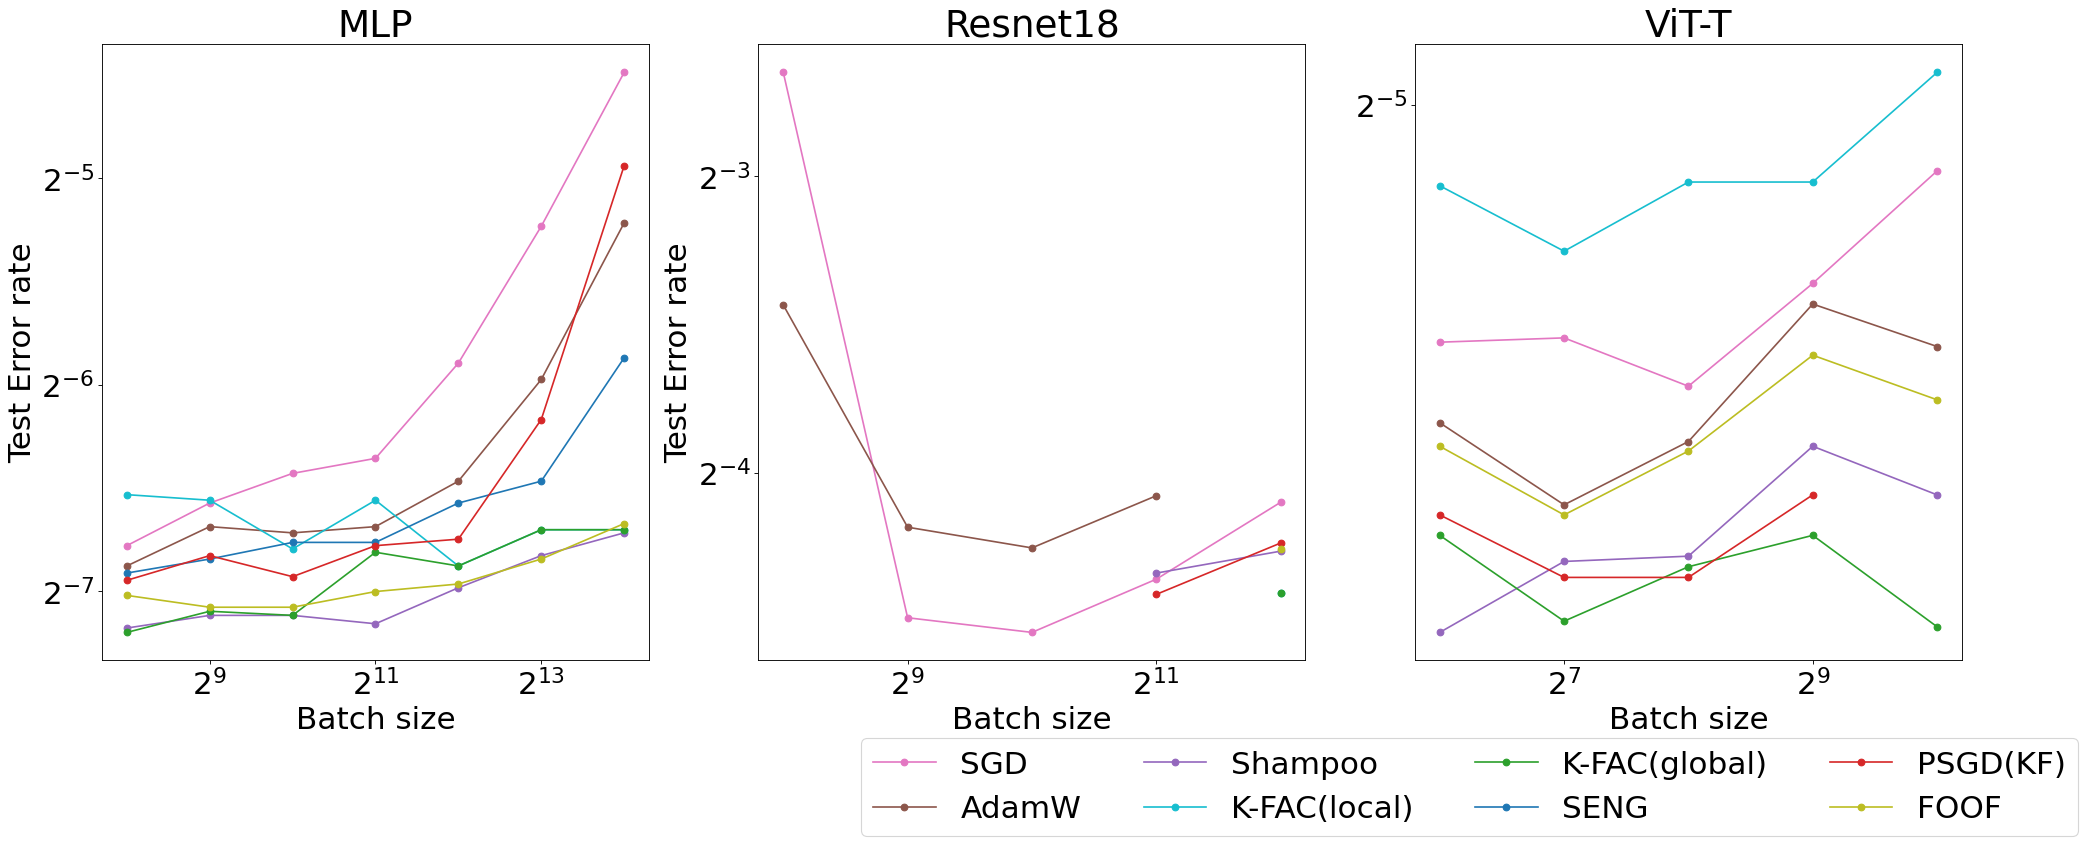
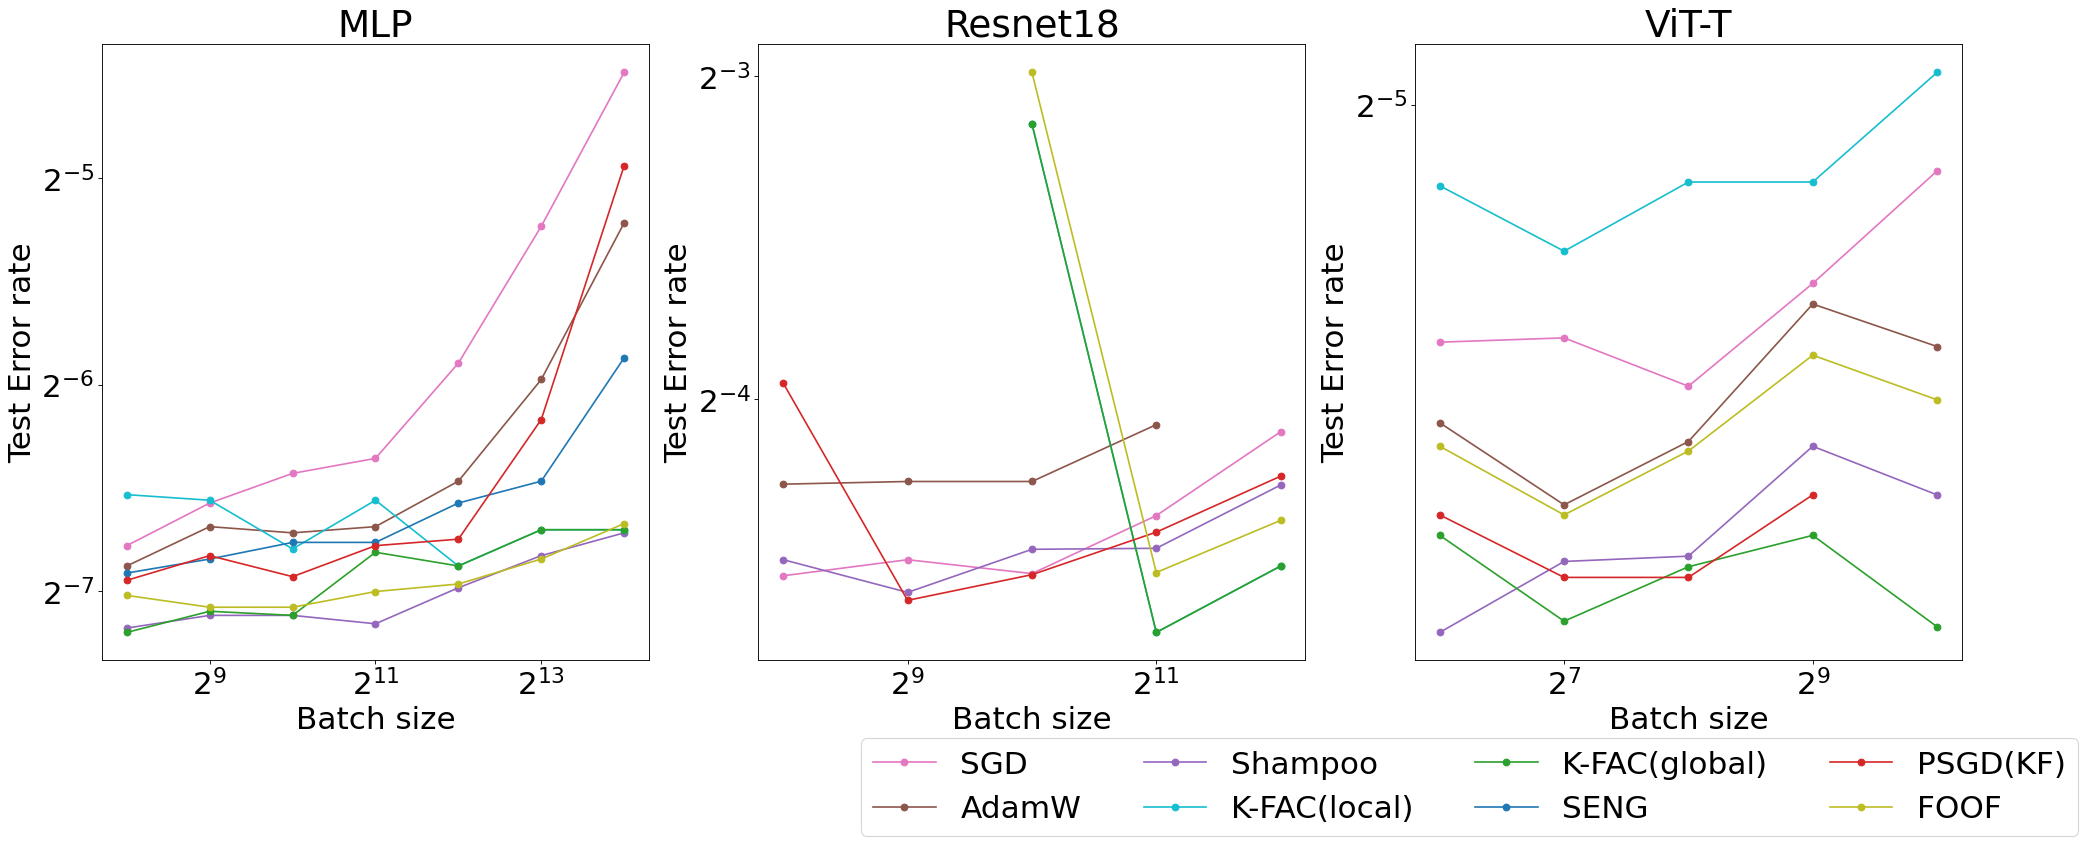
grafting

diff --git a/sotsuron/grafting.py b/sotsuron/grafting.py
@@ -1,0 +1,136 @@
+import wandb
+import matplotlib.pyplot as plt
+import numpy as np
+
+col = {'sgd':'tab:pink','psgd':'tab:red','kfac_mc':'tab:green','kfac_mc_local':'tab:cyan','seng':'tab:blue','shampoo':'tab:purple','adamw':'tab:brown','foof':'tab:olive'}
+model_name_dic = {'mlp':'MLP','cnn':'CNN','resnet18':'Resnet18','vit_tiny_patch16_224':'ViT-tiny'}
+optim_dict = {'sgd':'SGD','adamw':'AdamW','psgd':'PSGD(KF)','kfac_mc':'K-FAC(global)','foof':'FOOF','skfac_mc':'SK-FAC(1-mc)','shampoo':'Shampoo','seng':'SENG','smw_ngd':'SMW-NG'}
+grafting_dict = {'None':"solid",'SGDNorm':"dashdot",'SGDDirection':"dashed",'AllSGD':"solid"}
+
+def make_dict(epoch_list):
+    acc_dic={}
+    for optim in optim_list:
+        acc_dic[optim]={}
+        for grafting in ["None",'SGDNorm','SGDDirection','AllSGD']:
+            acc_dic[optim][grafting]={}
+            for epoch in epoch_list:
+                acc_dic[optim][grafting][epoch]=0
+    return acc_dic
+
+def remove_dict(acc_dic,epoch_list):
+    for optim in optim_list:
+        for epoch in epoch_list:
+            for grafting in ["None",'SGDNorm','SGDDirection','AllSGD']:
+                if acc_dic[optim][grafting][epoch]<50:
+                    acc_dic[optim][grafting].pop(epoch)
+    return acc_dic
+
+def collect_runs(model,bs,sweep_list_mlp,epoch_list,metric='max_test_accuracy'):
+    damp_loss_dic = make_dict(epoch_list)
+    for sweep_name in sweep_list_mlp:
+        sweep = api.sweep(sweep_name)
+        runs = sweep.runs
+        for run in runs:
+            model_name = run.config.get('model')
+            opt=str(run.config.get('optim'))
+            graft=str(run.config.get('grafting'))
+
+            if model_name == model  and run.config.get('epochs') in epoch_list and opt in optim_list and run.config.get('batch_size') == bs:
+                if run.summary.get("cuda_max_memory") == -1 or type(run.summary.get(metric)) != float:
+                    test_accuracy=0
+                else:
+                    test_accuracy=run.summary.get(metric)
+
+                if graft == 'AllSGD':
+                    opt = 'sgd'
+
+                cur_loss=damp_loss_dic[opt][graft][run.config.get('epochs')]
+                if test_accuracy > cur_loss:
+                    damp_loss_dic[opt][graft][run.config.get('epochs')]=test_accuracy
+
+                # if run.config.get('optim')=='kfac_mc' and run.config.get('ema_decay')==-1:
+                #     cur_loss=damp_loss_dic['kfac_mc_local'][str(run.config.get('grafting'))][run.config.get('epochs')]
+                #     if test_accuracy > cur_loss:
+                #         damp_loss_dic['kfac_mc_local'][str(run.config.get('grafting'))][run.config.get('epochs')]=test_accuracy
+    print(model,' completed')
+    return damp_loss_dic
+
+def plot(ax,output_dic,grafting):
+    for optim in optim_list: 
+        if optim == 'sgd':
+            xkey=list(output_dic[optim]['AllSGD'].keys())
+            yvalue=list(output_dic[optim]['AllSGD'].values())
+            ax.plot(xkey,yvalue,label=optim_dict[optim],color=col[optim],marker='o')
+        else:
+            xkey=list(output_dic[optim][grafting].keys())
+            yvalue=list(output_dic[optim][grafting].values())
+            ax.plot(xkey,yvalue,label=optim_dict[optim],color=col[optim],marker='o')
+
+if __name__=='__main__':
+    api = wandb.Api()
+    optim_list = ['sgd','shampoo','psgd','kfac_mc','foof','seng']
+    graft_list = ["None",'SGDNorm','SGDDirection']
+    epoch_list = [5,10,20,40]
+    epoch_list_resnet = [25,50,100,200]
+    filename = './sotsuron/graph/grafting.png'
+
+    sweep_list_mlp={
+        'riverstone/grafting/godore5g',
+        'riverstone/grafting/yvvvpeqq',
+        'riverstone/grafting/6uu1uny6',
+        'riverstone/grafting/u7szv79y',
+        'riverstone/grafting/gvi0d9s3',
+        'riverstone/grafting/xr4k3q2n'
+    }
+
+    sweep_list_resnet={
+        'riverstone/grafting/cf10xbtw',
+        'riverstone/grafting/rgdrwvna',
+        'riverstone/grafting/oriqygl6',
+        'riverstone/grafting/s45umgc1',
+    }
+
+    sweep_list_vit={
+        'riverstone/grafting/0fq4zsll',
+        'riverstone/grafting/9t8riv33',
+        'riverstone/grafting/l8skh2i3',
+        'riverstone/grafting/x54o7iz8'
+    }
+
+    metric = "max_test_accuracy"
+    test_dic_mlp_256=collect_runs('mlp',256,sweep_list_mlp,epoch_list,metric=metric)
+    test_dic_mlp=collect_runs('mlp',16384,sweep_list_mlp,epoch_list,metric=metric)
+    test_dic_resnet=collect_runs('resnet18',128,sweep_list_resnet,epoch_list_resnet,metric=metric)
+    test_dic_resnet_1024=collect_runs('resnet18',1024,sweep_list_resnet,epoch_list_resnet,metric=metric)
+    test_dic_vit=collect_runs('vit_tiny_patch16_224',512,sweep_list_vit,epoch_list,metric=metric)
+    test_dic_resnet=remove_dict(test_dic_resnet,epoch_list_resnet)
+    test_dic_resnet_1024=remove_dict(test_dic_resnet_1024,epoch_list_resnet)
+    test_dic_vit=remove_dict(test_dic_vit,epoch_list)
+
+    plt.rcParams["font.size"] = 28
+    fig, axes = plt.subplots(nrows=len(graft_list), ncols=5, figsize=(50, 30))
+
+    for j in range(len(graft_list)):
+        graft = graft_list[j]
+        plot(axes[j][0],test_dic_mlp_256,graft)
+        plot(axes[j][1],test_dic_mlp,graft)
+        plot(axes[j][2],test_dic_resnet,graft)
+        plot(axes[j][3],test_dic_resnet_1024,graft)
+        plot(axes[j][4],test_dic_vit,graft)
+
+        axes[j][0].set_xlabel('Epoch')
+        axes[j][1].set_xlabel('Epoch')
+        axes[j][2].set_xlabel('Epoch')
+        axes[j][3].set_xlabel('Epoch')
+        axes[j][4].set_xlabel('Epoch')
+        axes[j][0].set_ylabel(graft)
+
+        axes[j][0].set_title('MLP(bs=128)')
+        axes[j][1].set_title('MLP(bs=16384)')
+        axes[j][2].set_title('Resnet(bs=128)')
+        axes[j][3].set_title('Resnet(bs=1024)')
+        axes[j][4].set_title('ViT')
+
+    plt.legend(loc='upper center', bbox_to_anchor=(0, -0.2), ncol=3)
+    plt.plot()
+    plt.savefig(filename,dpi=80,bbox_inches='tight',pad_inches=0.1)

diff --git a/sotsuron/grafting2.py b/sotsuron/grafting2.py
@@ -1,0 +1,131 @@
+import wandb
+import matplotlib.pyplot as plt
+import numpy as np
+
+col = {'sgd':'tab:pink','psgd':'tab:red','kfac_mc':'tab:green','kfac_mc_local':'tab:cyan','seng':'tab:blue','shampoo':'tab:purple','adamw':'tab:brown','foof':'tab:olive'}
+model_name_dic = {'mlp':'MLP','cnn':'CNN','resnet18':'Resnet18','vit_tiny_patch16_224':'ViT-tiny'}
+optim_dict = {'sgd':'SGD','adamw':'AdamW','psgd':'PSGD(KF)','kfac_mc':'K-FAC(global)','foof':'FOOF','skfac_mc':'SK-FAC(1-mc)','shampoo':'Shampoo','seng':'SENG','smw_ngd':'SMW-NG'}
+grafting_dict = {'None':"solid",'SGDNorm':"dashdot",'SGDDirection':"dashed",'AllSGD':"solid"}
+
+def make_dict(epoch_list):
+    acc_dic={}
+    for optim in optim_list:
+        acc_dic[optim]={}
+        for grafting in ["None",'SGDNorm','SGDDirection','AllSGD']:
+            acc_dic[optim][grafting]={}
+            for epoch in epoch_list:
+                acc_dic[optim][grafting][epoch]=0
+    return acc_dic
+
+def remove_dict(acc_dic,epoch_list):
+    for optim in optim_list:
+        for epoch in epoch_list:
+            for grafting in ["None",'SGDNorm','SGDDirection','AllSGD']:
+                if acc_dic[optim][grafting][epoch]<50:
+                    acc_dic[optim][grafting].pop(epoch)
+    return acc_dic
+
+def collect_runs(model,bs,sweep_list_mlp,epoch_list,metric='max_test_accuracy'):
+    damp_loss_dic = make_dict(epoch_list)
+    for sweep_name in sweep_list_mlp:
+        sweep = api.sweep(sweep_name)
+        runs = sweep.runs
+        for run in runs:
+            model_name = run.config.get('model')
+            opt=str(run.config.get('optim'))
+            graft=str(run.config.get('grafting'))
+
+            if model_name == model  and run.config.get('epochs') in epoch_list and opt in optim_list and run.config.get('batch_size') == bs:
+                if run.summary.get("cuda_max_memory") == -1 or type(run.summary.get(metric)) != float:
+                    test_accuracy=0
+                else:
+                    test_accuracy=run.summary.get(metric)
+
+                if graft == 'AllSGD':
+                    opt = 'sgd'
+
+                cur_loss=damp_loss_dic[opt][graft][run.config.get('epochs')]
+                if test_accuracy > cur_loss:
+                    damp_loss_dic[opt][graft][run.config.get('epochs')]=test_accuracy
+
+                # if run.config.get('optim')=='kfac_mc' and run.config.get('ema_decay')==-1:
+                #     cur_loss=damp_loss_dic['kfac_mc_local'][str(run.config.get('grafting'))][run.config.get('epochs')]
+                #     if test_accuracy > cur_loss:
+                #         damp_loss_dic['kfac_mc_local'][str(run.config.get('grafting'))][run.config.get('epochs')]=test_accuracy
+    print(model,' completed')
+    return damp_loss_dic
+
+def plot(ax,output_dic,grafting):
+    for optim in optim_list: 
+        if optim == 'sgd':
+            xkey=list(output_dic[optim]['AllSGD'].keys())
+            yvalue=list(output_dic[optim]['AllSGD'].values())
+            ax.plot(xkey,yvalue,label=optim_dict[optim],color=col[optim],marker='o')
+        else:
+            xkey=list(output_dic[optim][grafting].keys())
+            yvalue=list(output_dic[optim][grafting].values())
+            ax.plot(xkey,yvalue,label=optim_dict[optim],color=col[optim],marker='o')
+
+if __name__=='__main__':
+    api = wandb.Api()
+    optim_list = ['sgd','shampoo','psgd','kfac_mc','foof','seng']
+    graft_list = ["None",'SGDNorm','SGDDirection']
+    epoch_list = [5,10,20,40]
+    epoch_list_resnet = [25,50,100,200]
+
+    model = 'mlp'
+    #model = 'vit_tiny_patch16_224'
+    batch_size = 256
+    filename = './sotsuron/graph/grafting/grafting_'+model+'_bs'+str(batch_size)+'.png'
+
+    sweep_list_mlp={
+        'riverstone/grafting/godore5g',
+        'riverstone/grafting/yvvvpeqq',
+        'riverstone/grafting/6uu1uny6',
+        'riverstone/grafting/u7szv79y',
+        'riverstone/grafting/gvi0d9s3',
+        'riverstone/grafting/xr4k3q2n'
+    }
+
+    sweep_list_resnet={
+        'riverstone/grafting/cf10xbtw',
+        'riverstone/grafting/rgdrwvna',
+        'riverstone/grafting/oriqygl6',
+        'riverstone/grafting/s45umgc1',
+    }
+
+    sweep_list_vit={
+        'riverstone/grafting/0fq4zsll',
+        'riverstone/grafting/9t8riv33',
+        'riverstone/grafting/l8skh2i3',
+        'riverstone/grafting/x54o7iz8'
+    }
+
+    if model == 'mlp':
+        sweep_list=sweep_list_mlp
+        epoch_list=epoch_list
+    if model == 'resnet18':
+        sweep_list=sweep_list_resnet
+        epoch_list=epoch_list_resnet
+    if model == 'vit_tiny_patch16_224':
+        sweep_list=sweep_list_vit
+        epoch_list=epoch_list
+
+    metric = "max_test_accuracy"
+    test_dic = collect_runs(model,batch_size,sweep_list,epoch_list,metric=metric)
+    test_dic=remove_dict(test_dic,epoch_list)
+
+    plt.rcParams["font.size"] = 28
+    fig, axes = plt.subplots(nrows=1, ncols=len(graft_list), figsize=(30,10))
+
+    for j in range(len(graft_list)):
+        graft = graft_list[j]
+        plot(axes[j],test_dic,graft)
+
+        axes[j].set_xlabel('Epoch')
+        axes[j].set_ylabel(graft)
+
+    axes[1].set_title(model_name_dic[model]+'(bs='+str(batch_size)+')')
+    plt.legend(loc='upper center', bbox_to_anchor=(0, -0.2), ncol=3)
+    plt.plot()
+    plt.savefig(filename,dpi=80,bbox_inches='tight',pad_inches=0.1)

diff --git a/sotsuron/bstest_acc.py b/sotsuron/bstest_acc.py
@@ -11,13 +11,13 @@ def make_dict(batchsize_list):
     for optim in optim_list:
         acc_dic[optim]={}
         for bs in batchsize_list:
-            acc_dic[optim][bs]=np.inf
+            acc_dic[optim][bs]=0
     return acc_dic
 
 def remove_dict(acc_dic,batchsize_list):
     for optim in optim_list:
         for bs in batchsize_list:
-            if acc_dic[optim][bs]==1:
+            if acc_dic[optim][bs]<80:
                 acc_dic[optim].pop(bs)
     return acc_dic
 
@@ -32,16 +32,16 @@ def collect_runs(model,sweep_list_mlp,batchsize_list,metric='train_accuracy'):
                 if run.summary.get("cuda_max_memory") == -1 or type(run.summary.get(metric)) != float:
                     test_accuracy=0
                 else:
-                    test_accuracy=run.summary.get(metric)/100
+                    test_accuracy=run.summary.get(metric)
 
                 cur_loss=damp_loss_dic[run.config.get('optim')][run.config.get('batch_size')]
-                if 1-test_accuracy < cur_loss:
-                    damp_loss_dic[run.config.get('optim')][run.config.get('batch_size')]=1-test_accuracy
+                if test_accuracy > cur_loss:
+                    damp_loss_dic[run.config.get('optim')][run.config.get('batch_size')]=test_accuracy
 
                 if run.config.get('optim')=='kfac_mc' and (run.config.get('ema_decay')==-1 or  run.config.get('ema_decay')==1):
                     cur_loss=damp_loss_dic['kfac_mc_local'][run.config.get('batch_size')]
-                    if 1-test_accuracy < cur_loss:
-                        damp_loss_dic['kfac_mc_local'][run.config.get('batch_size')]=1-test_accuracy
+                    if test_accuracy > cur_loss:
+                        damp_loss_dic['kfac_mc_local'][run.config.get('batch_size')]=test_accuracy
 
     print(damp_loss_dic)
     return damp_loss_dic
@@ -50,8 +50,9 @@ if __name__=='__main__':
     api = wandb.Api()
     optim_list = ['sgd','adamw','shampoo','kfac_mc_local','kfac_mc','seng','psgd','foof']
     batchsize_list = [256,512,1024,2048,4096,8192,16384]
+    batchsize_list_res = [128,256,512,1024,2048,4096]
     batchsize_list_vit = [64,128,256,512,1024]
-    filename = './graph/bstrain.png'
+    filename = './sotsuron/graph/bstestacc.png'
 
     sweep_list_mlp={
         'riverstone/criteria/spzpahql',
@@ -85,17 +86,19 @@ if __name__=='__main__':
         'riverstone/res_batch/fnetnblk',
         'riverstone/res_batch/2mro7urd',
         'riverstone/res_batch/xzh4rrxh',
-        'riverstone/res_batch/yapj6sw7'
+        'riverstone/res_batch/zlh21342',
+        'riverstone/res_batch/18fm6e4e'
     }
 
-    metric='train_accuracy_all'
+    metric='max_test_accuracy'
     clip_test_dic_mlp=collect_runs('mlp',sweep_list_mlp,batchsize_list,metric=metric)
-    clip_test_dic_res=collect_runs('resnet18',sweep_list_res,batchsize_list,metric=metric)
+    clip_test_dic_res=collect_runs('resnet18',sweep_list_res,batchsize_list_res,metric=metric)
     clip_test_dic_vit=collect_runs('vit_tiny_patch16_224',sweep_list_vit,batchsize_list_vit,metric=metric)
+    clip_test_dic_res=remove_dict(clip_test_dic_res,batchsize_list_res)
     clip_test_dic_vit=remove_dict(clip_test_dic_vit,batchsize_list_vit)
 
     plt.rcParams["font.size"] = 28
-    fig, axes = plt.subplots(nrows=1, ncols=3, figsize=(33, 10))
+    fig, axes = plt.subplots(nrows=1, ncols=3, figsize=(30, 10))
 
     for j in range(len(optim_list)):
         optim = optim_list[j]
@@ -115,16 +118,16 @@ if __name__=='__main__':
         axes[1].set_xscale('log',base=2)
         axes[2].set_xscale('log',base=2)
         
-        axes[0].set_yscale('log',base=2)
-        axes[1].set_yscale('log',base=2)
-        axes[2].set_yscale('log',base=2)
+        #axes[0].set_yscale('log',base=2)
+        #axes[1].set_yscale('log',base=2)
+        #axes[2].set_yscale('log',base=2)
 
         axes[0].set_xlabel('Batch size')
         axes[1].set_xlabel('Batch size')
         axes[2].set_xlabel('Batch size')
-        axes[0].set_ylabel('Test Error rate')
-        axes[1].set_ylabel('Test Error rate')
-        axes[2].set_ylabel('Test Error rate')
+        axes[0].set_ylabel('Test Acc rate')
+        axes[1].set_ylabel('Test Acc rate')
+        axes[2].set_ylabel('Test Acc rate')
         axes[0].set_title('MLP')
         axes[1].set_title('Resnet18')
         axes[2].set_title('ViT-T')
